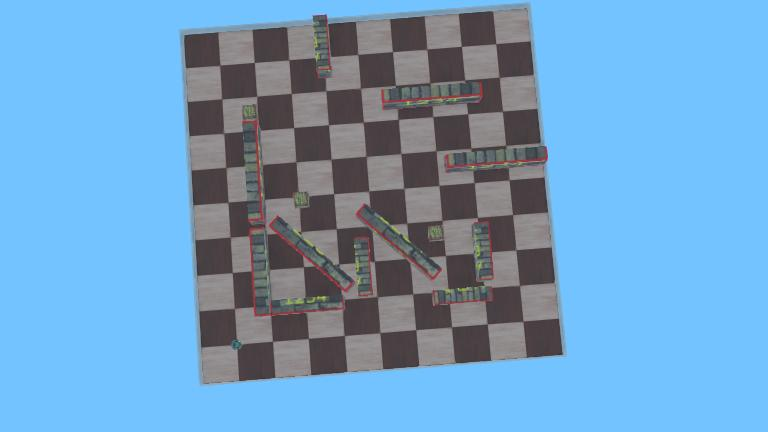
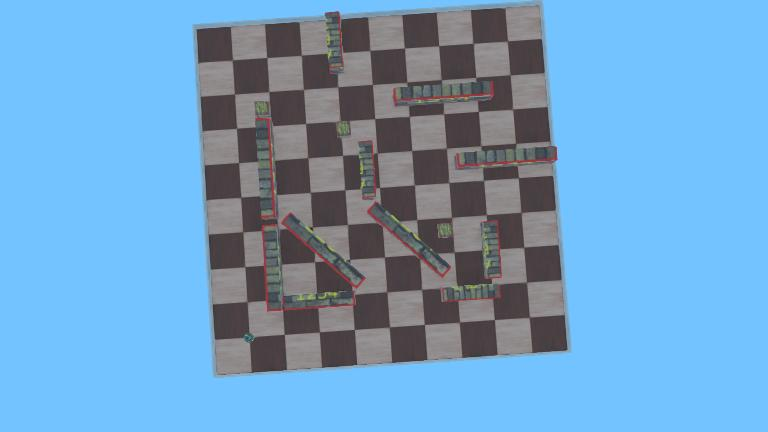
increased distance from unexpected obstacles, added obstacles on the way

Changed region(s): [[0.2188, 0.0, 0.75, 0.9028]]

diff --git a/controllers/robotito-controller/robotito-controller.py b/controllers/robotito-controller/robotito-controller.py
@@ -48,7 +48,7 @@ WAYPOINT_REACHED   = 0.07
 GOAL_TOL           = 0.08
 TURN_IN_PLACE_ANGLE = math.radians(45)
 
-IR_DANGER_THRESHOLD  = 250   
+IR_DANGER_THRESHOLD  = 150   
 
 # FIX: Angoli rad esatti del modello fisico E-puck in Webots
 # (Negativi = Lato Destro, Positivi = Lato Sinistro)
